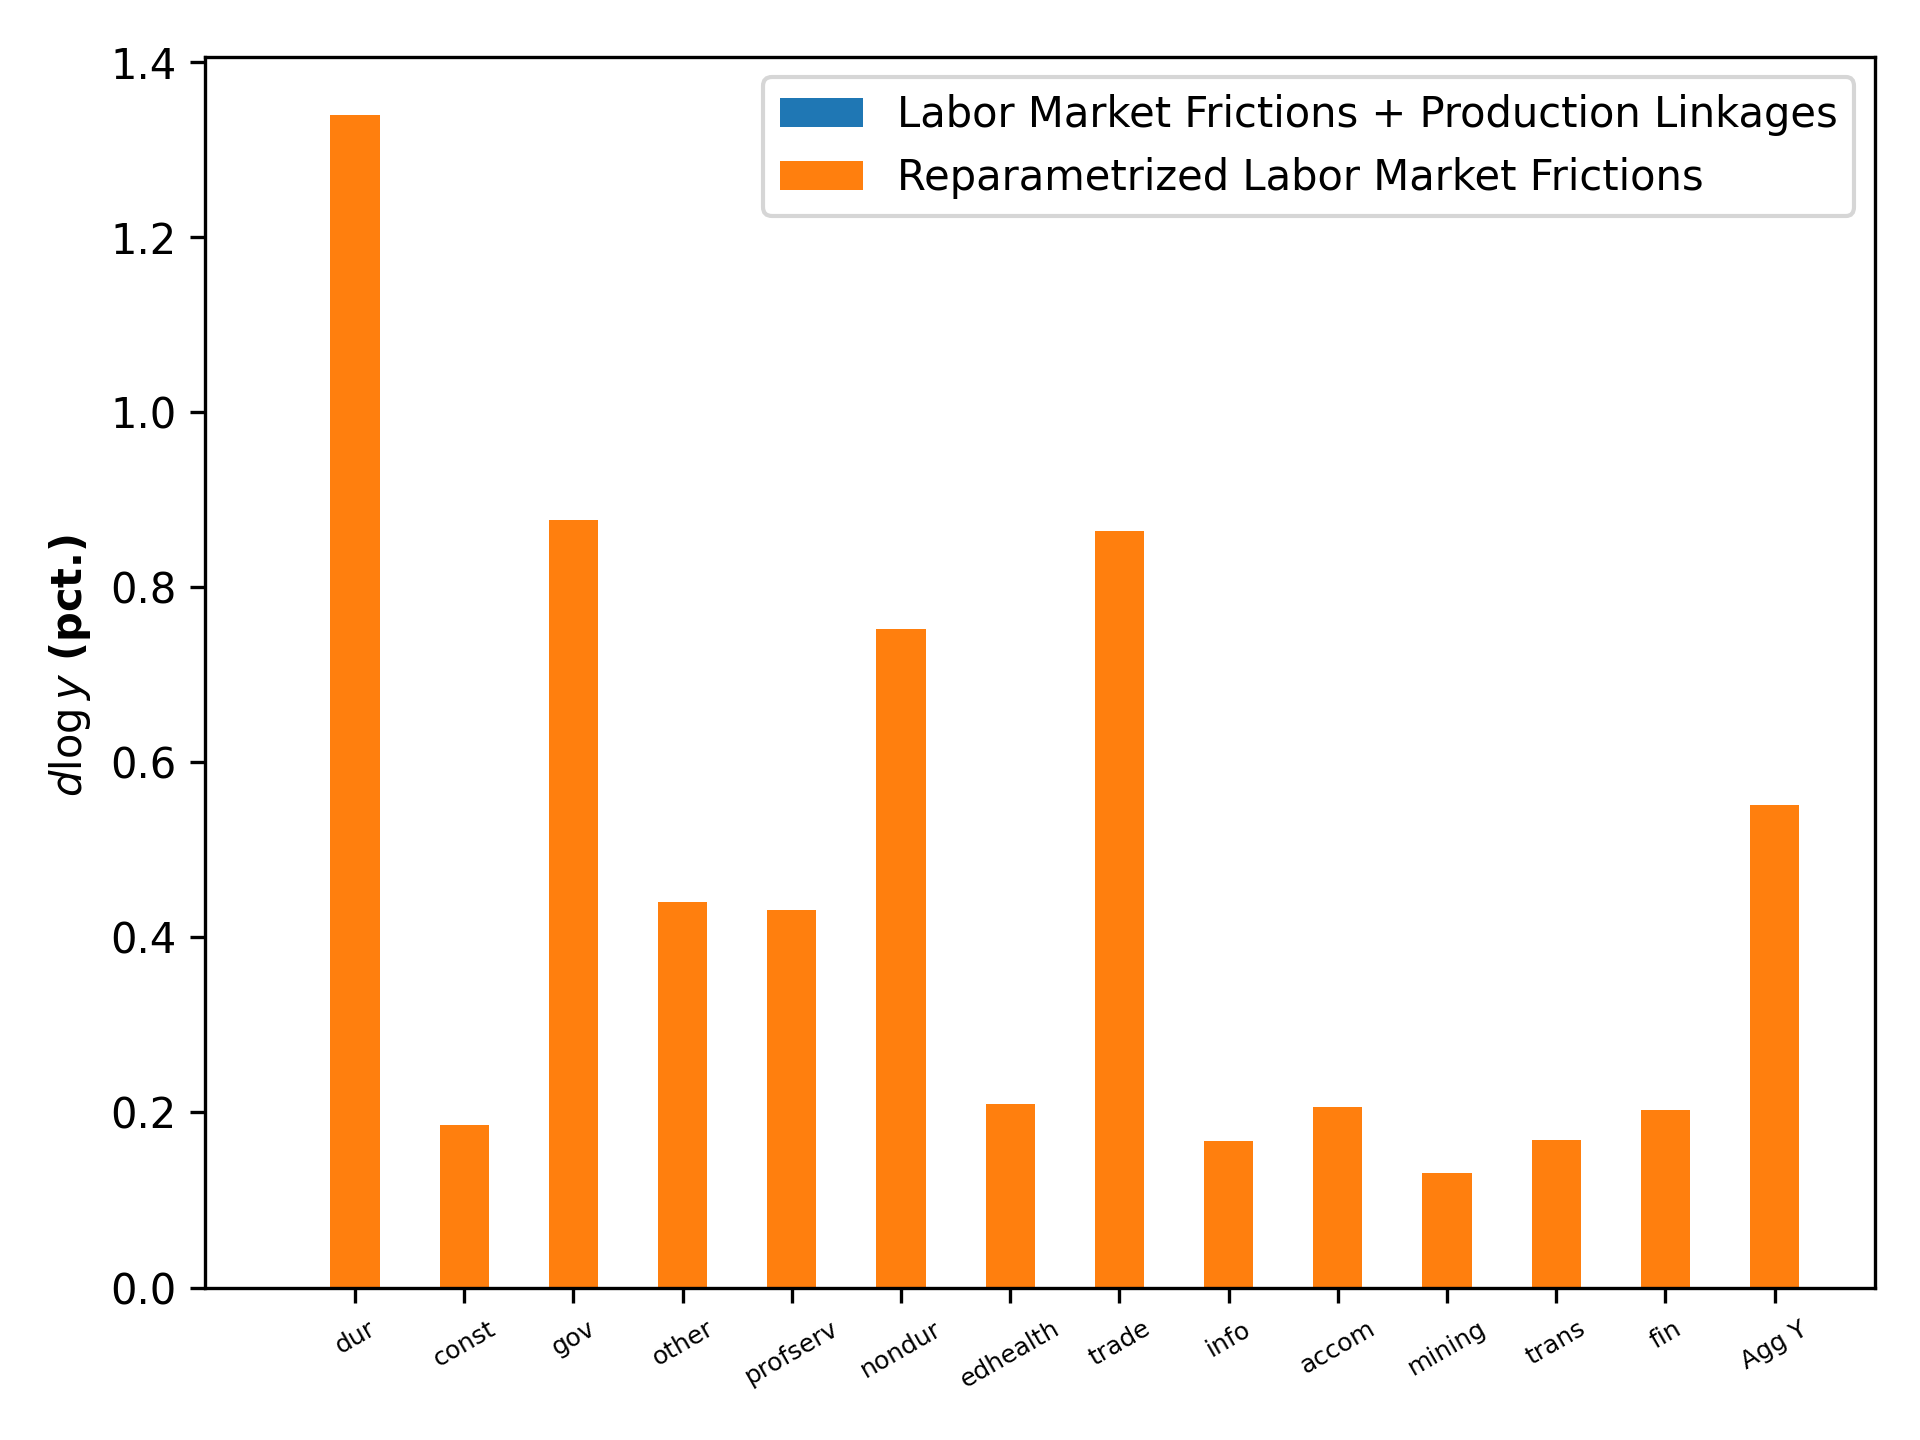
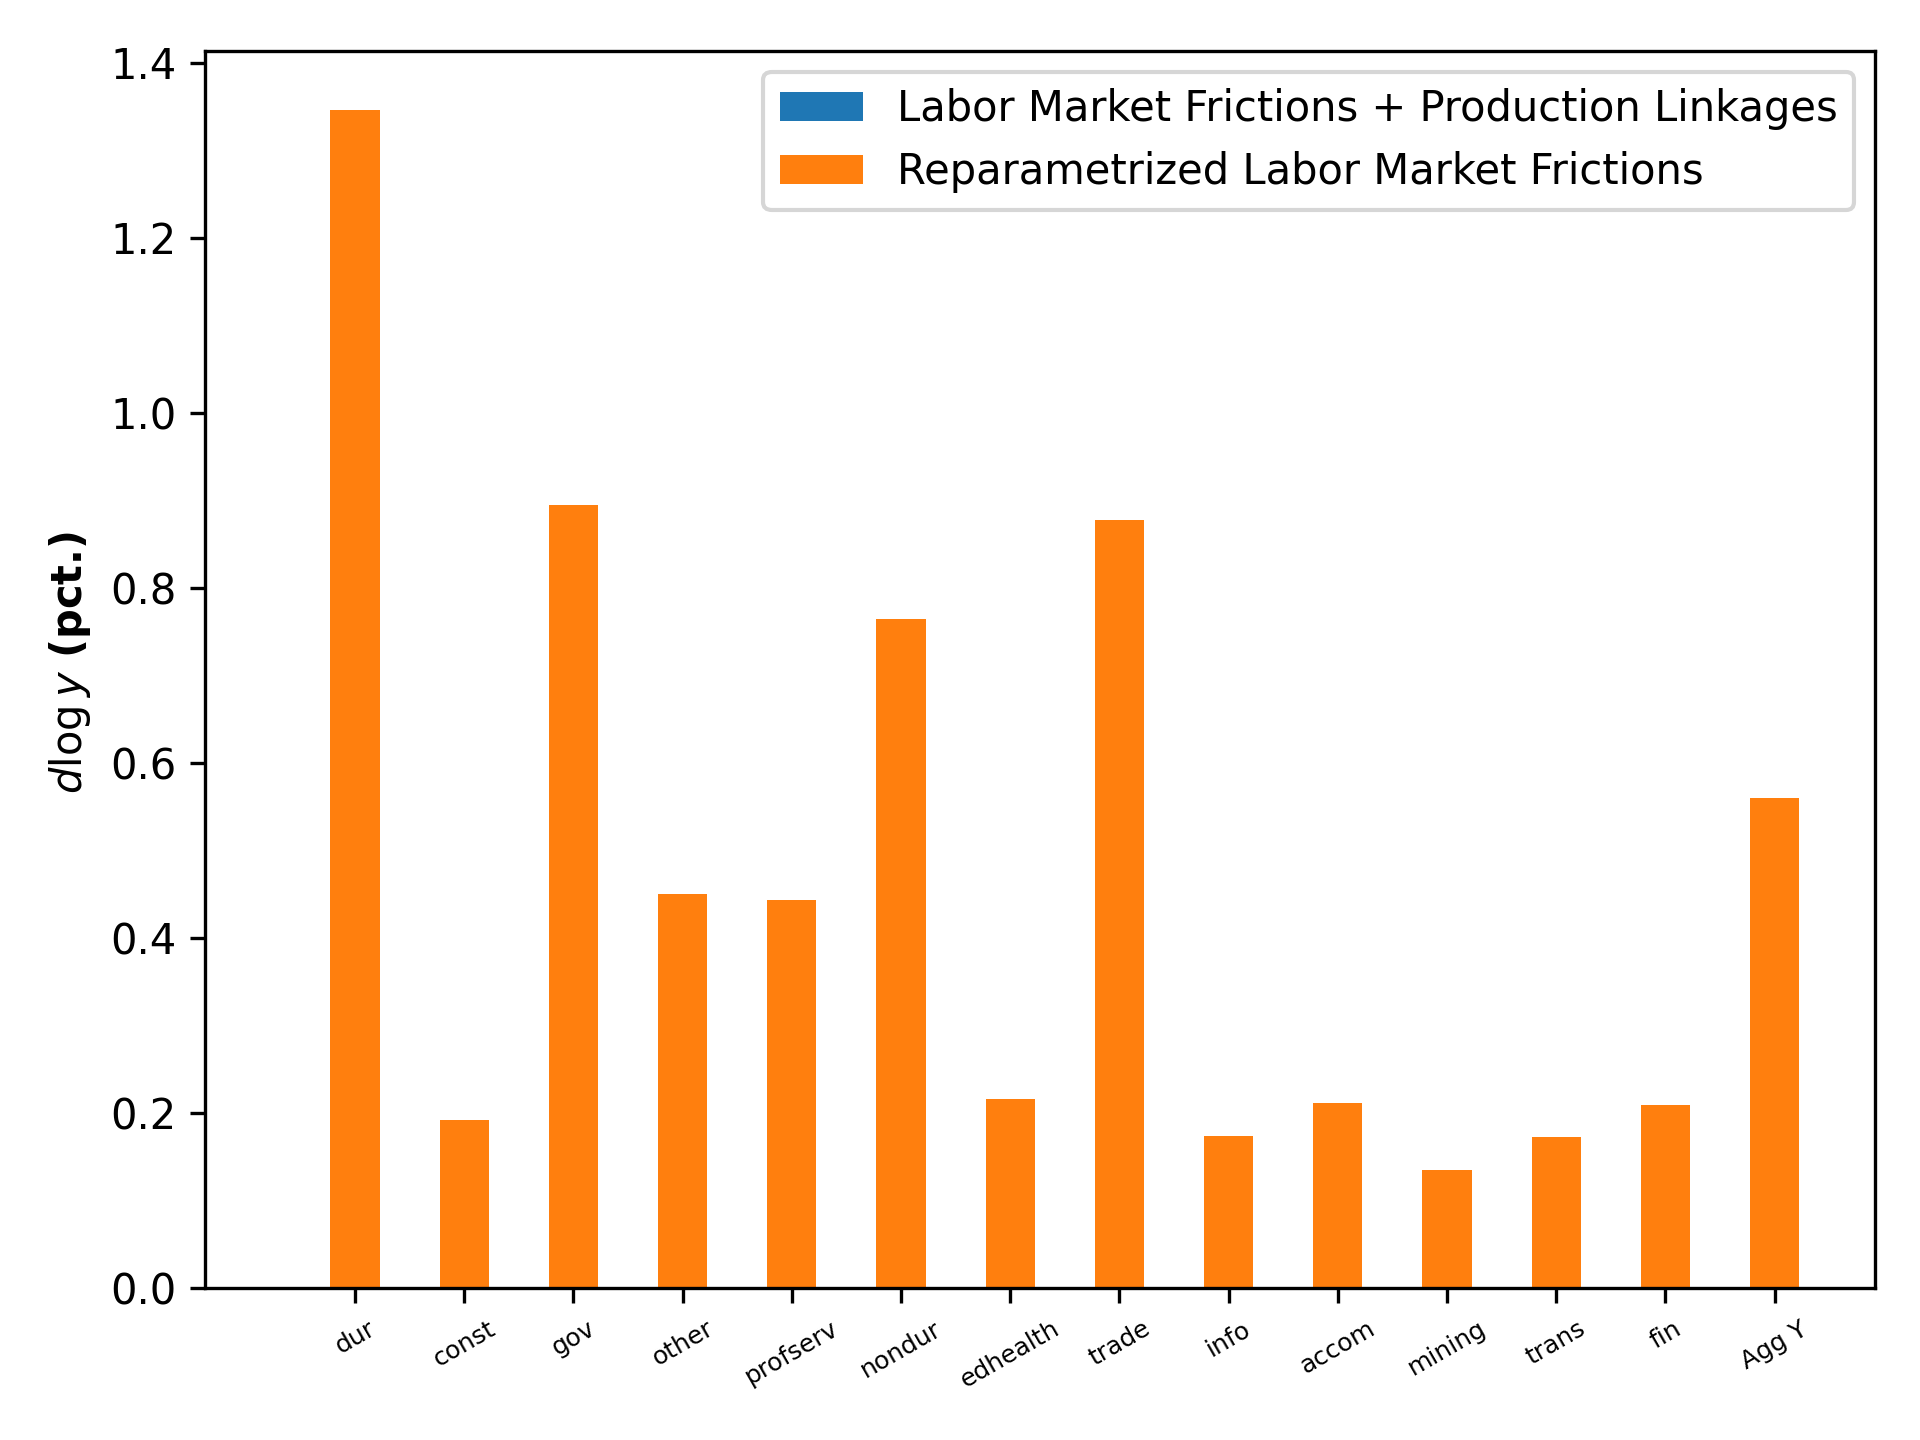
updates for MWM presentation

diff --git a/code/presentation_figures.py b/code/presentation_figures.py
@@ -135,6 +135,10 @@ epsK_no_network = epsK.copy()
 epsK_no_network[:,0] = np.sum(Omega,axis=1).reshape((J,1))+epsK_no_network[:,1]
 gamma = 0.7
 epsW_A, epsW_H, epsW_K = multi_occupation_network.WageElasticityFuncMP(gamma, np.eye(J), epsN, epsK_no_network, curlyF, curlyQ, curlyT, curlyL)
+#gamma_A = 0.7
+#gamma_H = 0
+#gamma_K = 0
+#epsW_A, epsW_H, epsW_K = multi_occupation_network.WageElasticityFunc(gamma_A, gamma_H, gamma_K, np.eye(J), curlyL, epsN, epsK_no_network)
 dlog_wR = multi_occupation_network.WageFunc(dlog_A, dlog_H, dlog_K, epsW_A, epsW_H, epsW_K)
 dlog_theta = multi_occupation_network.ThetaFunc(dlog_A, dlog_H, dlog_K, dlog_wR, dlog_epsN, dlog_lam, np.eye(J), np.zeros_like(Psi), curlyF, curlyQ, curlyT, curlyE, curlyL, epsN, epsK_no_network)
 occT_vec[:-1, i] = dlog_theta.flatten()
@@ -152,7 +156,11 @@ if do_unemployment:
 #3
 i = WageAssumption.index('Labor Market Frictions + Production Linkages')
 gamma = 0.7
-epsW_A, epsW_H, epsW_K = multi_occupation_network.WageElasticityFuncMP(gamma, Psi, epsN, epsK, curlyF, curlyQ, curlyT, curlyL)
+epsW_A, epsW_H, epsW_K = multi_occupation_network.WageElasticityFuncMP(gamma, np.eye(J), epsN, epsK_no_network, curlyF, curlyQ, curlyT, curlyL)
+#gamma_A = 0.7
+#gamma_H = 0
+#gamma_K = 0
+#epsW_A, epsW_H, epsW_K = multi_occupation_network.WageElasticityFunc(gamma_A, gamma_H, gamma_K, Psi, curlyL, epsN, epsK)
 dlog_wR = multi_occupation_network.WageFunc(dlog_A, dlog_H, dlog_K, epsW_A, epsW_H, epsW_K)
 dlog_theta = multi_occupation_network.ThetaFunc(dlog_A, dlog_H, dlog_K, dlog_wR, dlog_epsN, dlog_lam, Psi, Omega, curlyF, curlyQ, curlyT, curlyE, curlyL, epsN, epsK)
 occT_vec[:-1, i] = dlog_theta.flatten()
@@ -275,11 +283,14 @@ if do_unemployment:
     Psi_til = I_j
     Omega_til = np.zeros_like(Psi)
     dlog_theta = multi_occupation_network.ThetaFunc(dlog_A, dlog_H, dlog_K, dlog_wR, dlog_epsN, dlog_lam, Psi_til, Omega_til, curlyFtil, curlyQtil, curlyTtil, curlyE, curlyL, epsN, epsK)
+    dlog_y = multi_occupation_network.OutputFunc(dlog_A, dlog_H, dlog_K, dlog_theta, dlog_lam, Psi_til, Omega_til, curlyQtil, curlyFtil, epsN, epsK, curlyTtil, curlyE)
+    reparamY_vec[:-1, 1] = dlog_y.flatten()
+    reparamY_vec[-1, 1] = multi_occupation_network.AggOutputFunc(dlog_y, dlog_lam, dlog_epsD, epsD)
     dlog_U = multi_occupation_network.UnemploymentFunc(dlog_theta, dlog_H, curlyFtil, U, L)
     reparamU_vec[:-1,1] = dlog_U.flatten()
     reparamU_vec[-1, 1] = multi_occupation_network.AggUnemploymentFunc(dlog_U, U)
-    reparamUrate_vec[:-1,1] = -(U.flatten()/(U.flatten()+L.flatten()) - (1+occU_vec[:-1,i].flatten()) * U.flatten()/(U.flatten()+L.flatten()))
-    reparamUrate_vec[-1,1] = -(U.sum()/(U.sum()+L.sum()) - (1+occU_vec[-1,i].flatten()) * U.sum()/(U.sum()+L.sum()))
+    reparamUrate_vec[:-1,1] = -(U.flatten()/(U.flatten()+L.flatten()) - (1+reparamU_vec[:-1,1].flatten()) * U.flatten()/(U.flatten()+L.flatten()))
+    reparamUrate_vec[-1,1] = -(U.sum()/(U.sum()+L.sum()) - (1+reparamU_vec[-1,1].flatten()) * U.sum()/(U.sum()+L.sum()))
     # fig reparam
     xlab = ''
     ylab = 'Pct. Point Change in Unemployment Rate'
@@ -287,7 +298,14 @@ if do_unemployment:
     occupation_names1 = occupation_names + ['Agg U']
     labels = ['Labor Market Frictions + Production Linkages', 'Reparametrized Labor Market Frictions']
     bar_plot(100*reparamUrate_vec, occupation_names1, title, xlab, ylab, labels, save_path=save_path, colors=['tab:blue','tab:orange'], rotation=30, fontsize=10, barWidth = 0.45, dpi=300, reorder=reorder, gen_fig_sequence=fig_seq, order_ascending=True, contains_agg=contains_agg)
-        
+    
+    # fig reparam 
+    xlab = ''
+    ylab = '$\ d\log y$ (pct.)'
+    save_path = f'output/figures/presentation/{sec_to_shock}_AshockUratereparamY'
+    labels = ['Labor Market Frictions + Production Linkages', 'Reparametrized Labor Market Frictions']
+    bar_plot(100*reparamY_vec, sector_names, title, xlab, ylab, labels, save_path=save_path, colors=['tab:blue','tab:orange'], rotation=30, fontsize=10, barWidth = 0.45, dpi=300, reorder=reorder, gen_fig_sequence=fig_seq, order_ascending=False, contains_agg=contains_agg)
+            
 
 I_j = np.eye(curlyL.shape[1])
 Psi_til = I_j
@@ -296,7 +314,6 @@ dlog_theta = multi_occupation_network.ThetaFunc(dlog_A, dlog_H, dlog_K, dlog_wR,
 dlog_y = multi_occupation_network.OutputFunc(dlog_A, dlog_H, dlog_K, dlog_theta, dlog_lam, Psi_til, Omega_til, curlyQtil, curlyFtil, epsN, epsK, curlyTtil, curlyE)
 reparamY_vec[:-1, 1] = dlog_y.flatten()
 reparamY_vec[-1, 1] = multi_occupation_network.AggOutputFunc(dlog_y, dlog_lam, dlog_epsD, epsD)
-
 
 # What is unemployment pre- and post-shock
 Urate_data = np.zeros_like(occUrate_vec[:,0])
@@ -315,5 +332,41 @@ save_path = f'output/figures/presentation/{sec_to_shock}_UrateComp'
 labels = ['Change in Unemployment Rate', 'Pre-Shock Unemployment Rate', 'Post-Shock Unemployment Rate']
 bar_plot(100*Urate_comp, occupation_names1, title, xlab, ylab, labels, save_path=save_path, colors=['tab:blue','tab:green','tab:orange'], rotation=30, fontsize=10, barWidth = 0.3, dpi=300, reorder=reorder, gen_fig_sequence=fig_seq, order_ascending=True, contains_agg=contains_agg)
 
+
+# Robustness to wage rigidity
+MP_names = ['0.7MP', '0.9MP', '0.95MP', '0.99MP']
+sectorY_vec_robust = np.zeros((sectorY_vec.shape[0],4))
+occU_vec_robust = np.zeros((occU_vec.shape[0],4))
+occUrate_vec_robust = np.zeros_like(occU_vec_robust)
+
+MP_vec = [0.7, 0.9, 0.95, 0.99]
+for i in range(len(MP_vec)):
+    gamma = MP_vec[i]
+    epsW_A, epsW_H, epsW_K = multi_occupation_network.WageElasticityFuncMP(gamma, np.eye(J), epsN, epsK_no_network, curlyF, curlyQ, curlyT, curlyL)
+
+    dlog_wR = multi_occupation_network.WageFunc(dlog_A, dlog_H, dlog_K, epsW_A, epsW_H, epsW_K)
+    dlog_theta = multi_occupation_network.ThetaFunc(dlog_A, dlog_H, dlog_K, dlog_wR, dlog_epsN, dlog_lam, Psi, Omega, curlyF, curlyQ, curlyT, curlyE, curlyL, epsN, epsK)
+    dlog_y = multi_occupation_network.OutputFunc(dlog_A, dlog_H, dlog_K, dlog_theta, dlog_lam, Psi, Omega, curlyQ, curlyF, epsN, epsK, curlyT, curlyE)
+    sectorY_vec_robust[:-1, i] = dlog_y.flatten()
+    sectorY_vec_robust[-1, i] = multi_occupation_network.AggOutputFunc(dlog_y, dlog_lam, dlog_epsD, epsD)
+    if do_unemployment:
+        dlog_U = multi_occupation_network.UnemploymentFunc(dlog_theta, dlog_H, curlyF, U, L)
+        occU_vec_robust[:-1,i] = dlog_U.flatten()
+        occU_vec_robust[-1, i] = multi_occupation_network.AggUnemploymentFunc(dlog_U, U)
+        occUrate_vec_robust[:-1,i] = -(U.flatten()/(U.flatten()+L.flatten()) - (1+occU_vec_robust[:-1,i].flatten()) * U.flatten()/(U.flatten()+L.flatten()))
+        occUrate_vec_robust[-1,i] = -(U.sum()/(U.sum()+L.sum()) - (1+occU_vec_robust[-1,i].flatten()) * U.sum()/(U.sum()+L.sum()))
+
+# fig robust
+xlab = ''
+ylab = '$\ d\log y$ (pct.)'
+save_path = f'output/figures/presentation/{sec_to_shock}_AshockY_robust'
+bar_plot(100*sectorY_vec_robust, sector_names, title, xlab, ylab, MP_names, save_path=save_path, colors=['tab:blue','tab:orange','tab:green','tab:red'], rotation=30, fontsize=10, barWidth = 0.23, dpi=300, reorder=reorder, gen_fig_sequence=False, order_ascending=False, contains_agg=contains_agg)
+
+occupation_names1 = occupation_names + ['Agg U']
+xlab = ''
+ylab = 'Pct. Point Change in Unemployment Rate'
+save_path = f'output/figures/presentation/{sec_to_shock}_AshockUrate_robust'
+labels = WageAssumption
+bar_plot(100*occUrate_vec_robust, occupation_names1, title, xlab, ylab, MP_names, save_path=save_path, colors=['tab:blue','tab:orange','tab:green','tab:red'], rotation=30, fontsize=10, barWidth = 0.23, dpi=300, reorder=reorder, gen_fig_sequence=False, order_ascending=True, contains_agg=contains_agg)
 
 print('done')
